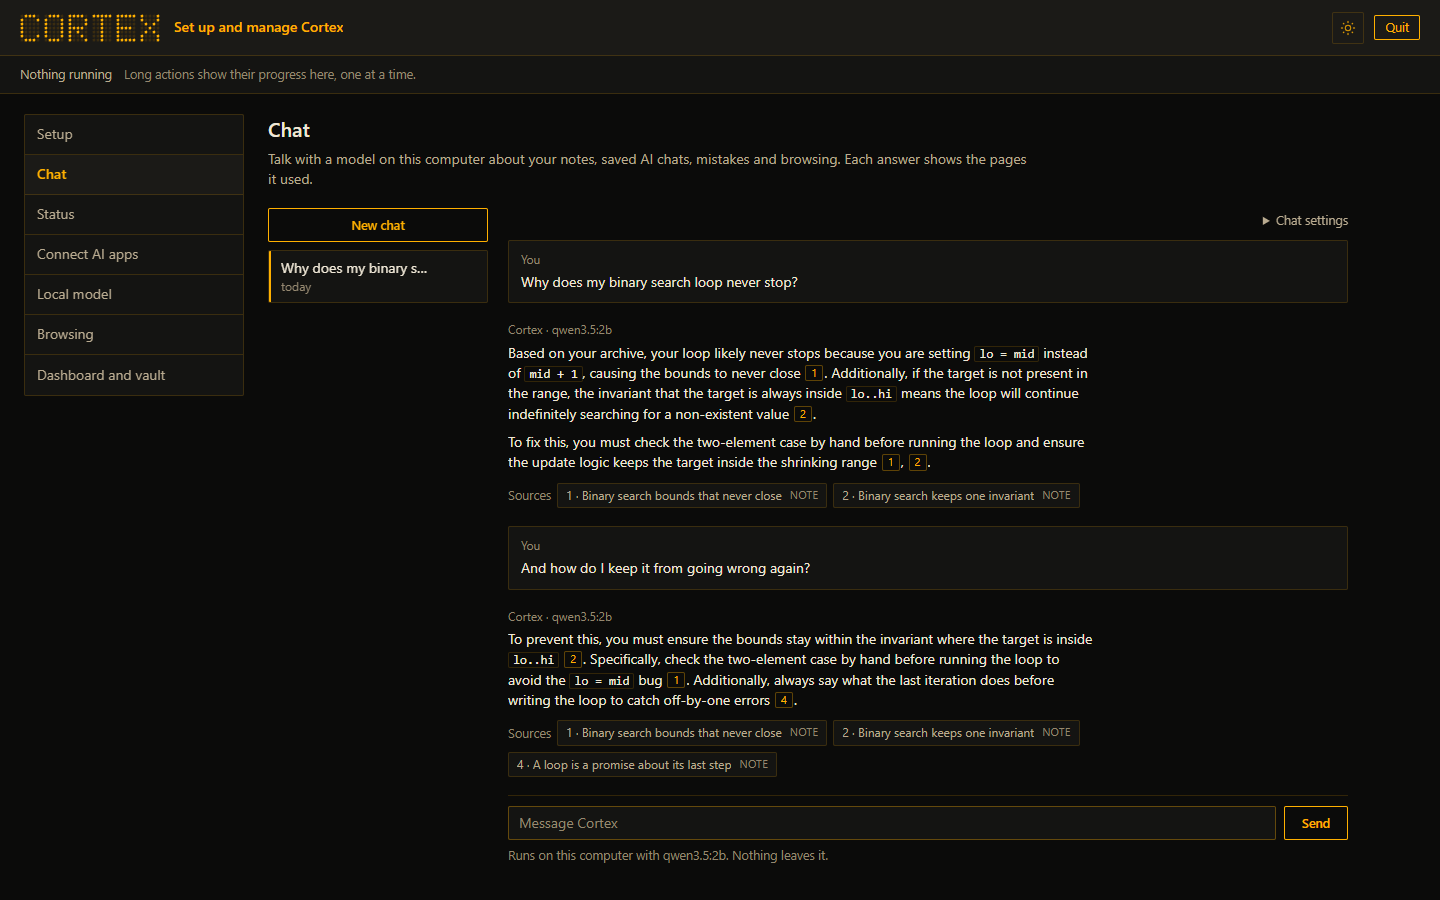
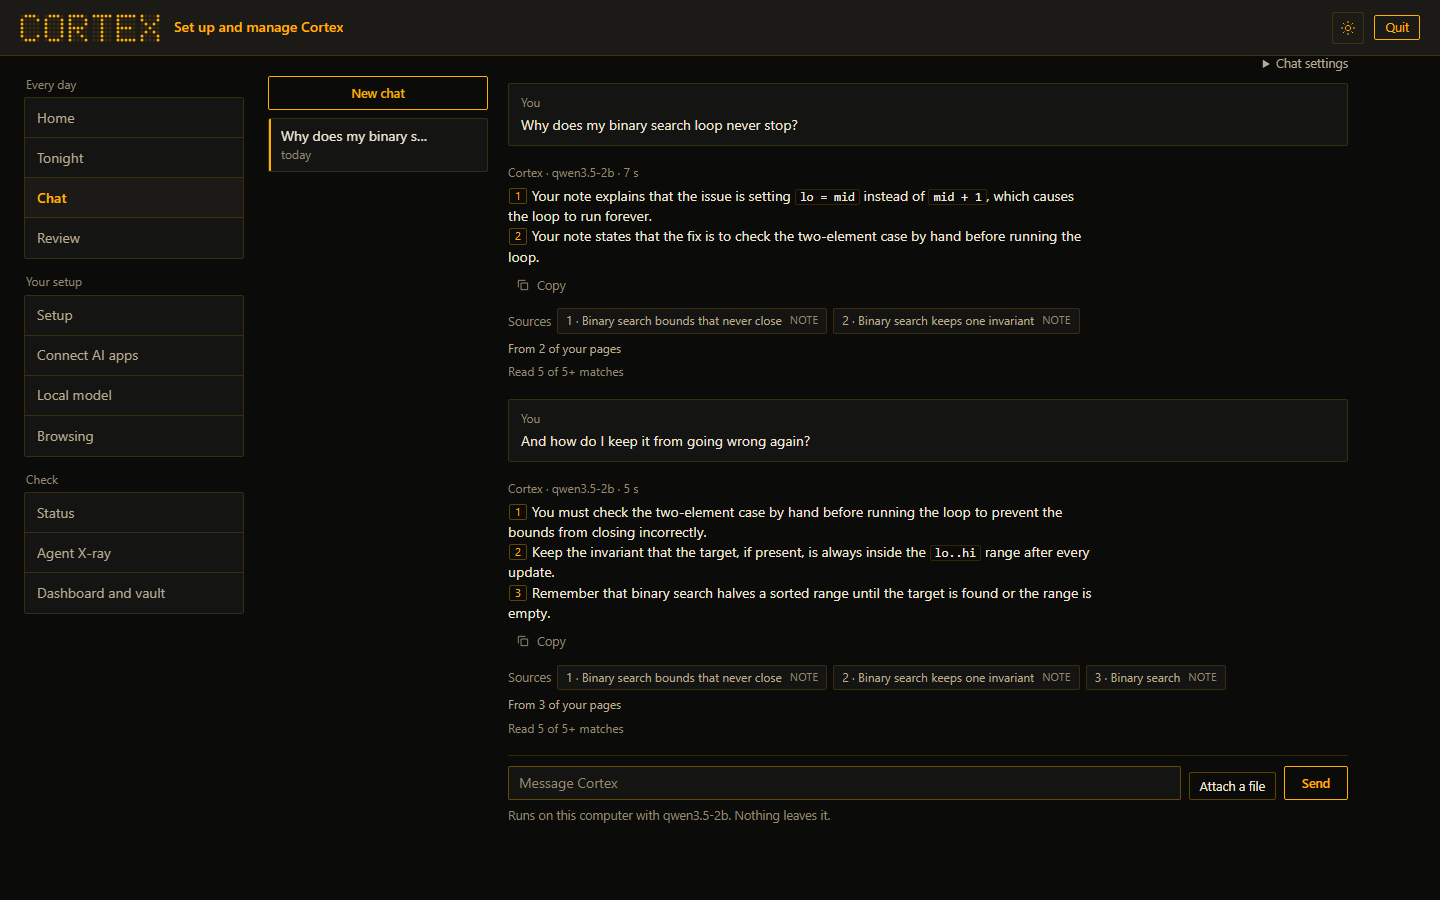
README: the Chat screenshot with the evidence line, the local model shown as qwen3.5-2b

diff --git a/README.md b/README.md
@@ -102,7 +102,7 @@ A **Private switch** in the header (Windows Hello) shows private notes and priva
 
 **Chat** talks with a model on this computer about your notes, saved AI chats and browsing, follows up across turns, shows each step while it works, and lists the pages each answer used. It never uses a cloud model. **Attach a file** (or drop one on the chat) to ask about a PDF, Word file or text file; the answer cites its pages, and **Save to your brain** imports it. Questions about your own record are answered straight from Cortex's data, even with no local model or search model: "which sites did I visit this month?" (every site, with visits and days, by browser if you name one), "what should I study today?", "what's due?", "where am I weak?", "what did I do yesterday?" and "summarize my week". Esc stops an answer, and every answer has Copy.
 
-![Chat: a question about a binary search that never stops and a follow-up, each answer citing the notes it used as numbered source chips](docs/images/app-chat.png)
+![Chat: a question about a binary search that never stops and a follow-up, each answer citing the notes it used as numbered source chips, with an evidence line under it saying how sure Cortex is](docs/images/app-chat.png)
 
 *A real run on the demo vault with Qwen 3.5 2B and the search model. A model this small can still get a detail wrong, so check the cited pages; a bigger model (4B, 9B) does better if your computer can run it.*
 
